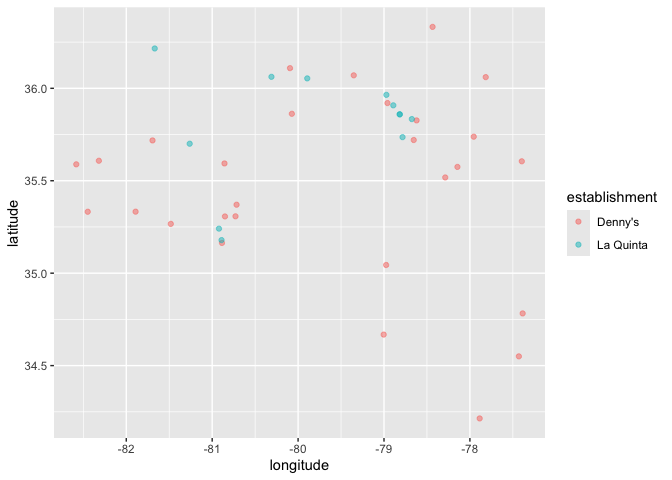
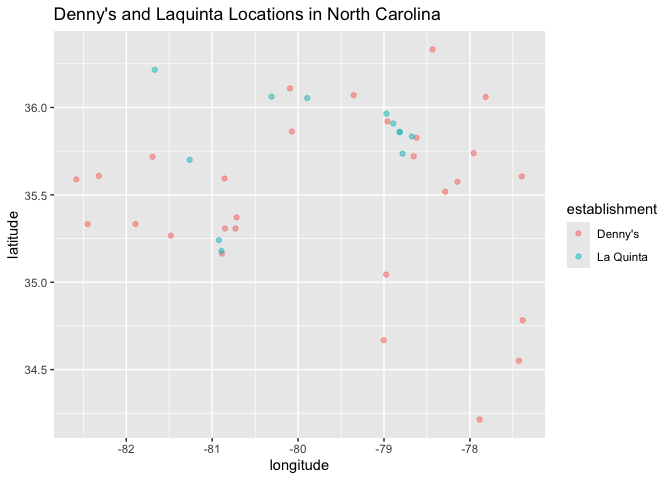
finsishing touches to graph; done

diff --git a/lab-04.md b/lab-04.md
@@ -323,7 +323,9 @@ ggplot(dn_lq, mapping = aes(
 Filter the data for observations in North Carolina only, and recreate
 the plot. You should also adjust the transparency of the points, by
 setting the alpha level, so that it’s easier to see the overplotted
-ones. Visually, does Mitch Hedberg’s joke appear to hold here?
+ones. Visually, does Mitch Hedberg’s joke appear to hold here? (These
+visualizations should follow best practices you learned in class, such
+as informative titles, axis labels, etc.)
 
 ``` r
 dn_lq %>% 
@@ -333,7 +335,8 @@ dn_lq %>%
       y = latitude,
       color = establishment
       )) +
-      geom_point(alpha = .5)
+    geom_point(alpha = .5) +
+    labs(x = "longitude", y = "latitude", title = "Denny's and Laquinta Locations in North Carolina")
 ```
 
 ![](lab-04_files/figure-gfm/NC_only-1.png)<!-- -->
@@ -355,7 +358,8 @@ dn_lq %>%
       y = latitude,
       color = establishment
       )) +
-      geom_point(alpha = .5)
+    geom_point(alpha = .5) +
+    labs(x = "longitude", y = "latitude", title = "Denny's and Laquinta Locations in Texas")  
 ```
 
 ![](lab-04_files/figure-gfm/TX_only-1.png)<!-- -->
